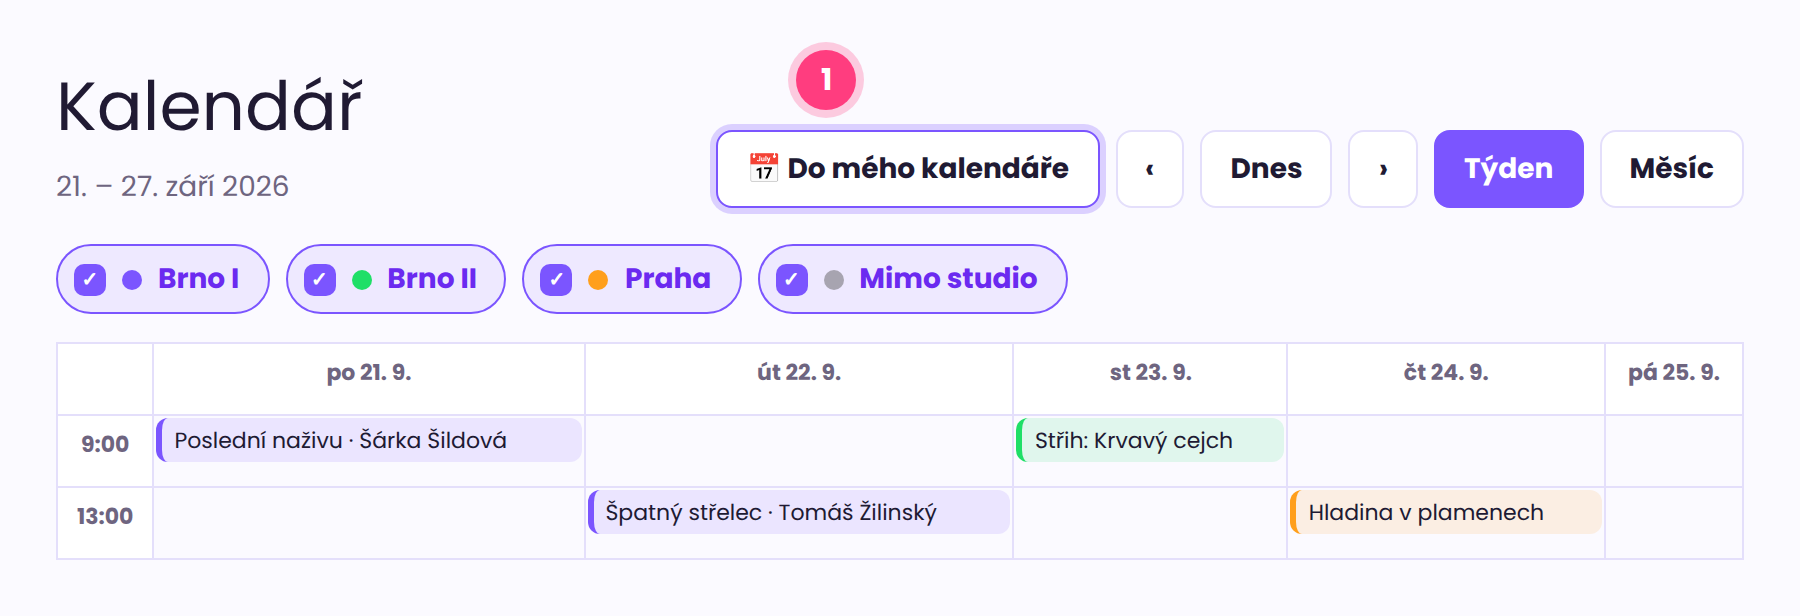
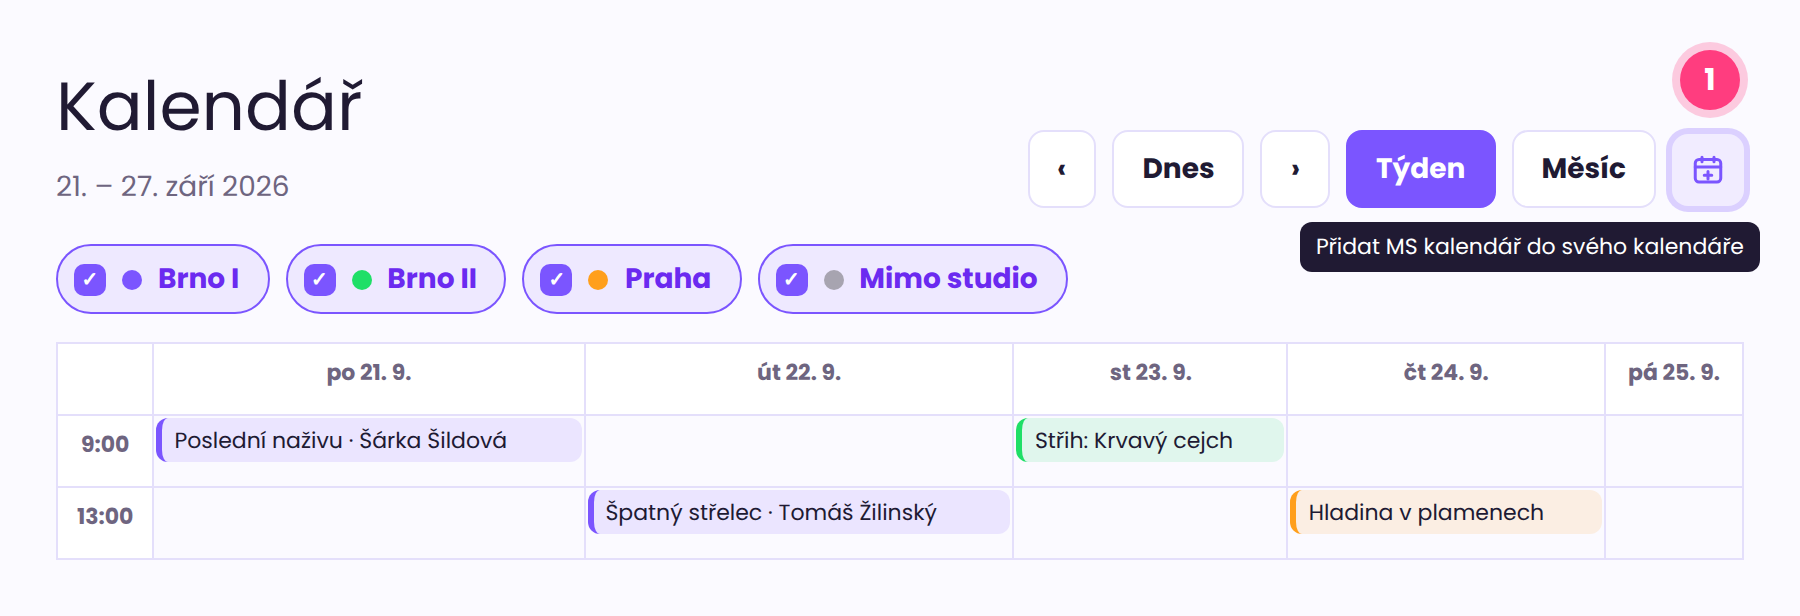
Kalendar: odber jen nenapadnou ikonkou
Tlacitko Do meho kalendare nahrazeno malou sedou ikonkou s bublinkou na konci hlavicky (za Tyden/Mesic). Navod a obrazek odber-1 upraveny.

Claude-Session: https://claude.ai/code/session_017ML6xEszibR659nh5zZn5o

Changed region(s): [[0.3733, 0.0617, 0.9956, 0.4627], [0.9022, 0.0617, 0.9956, 0.2159]]

diff --git a/src/app/(portal)/kalendar/OdberKalendare.tsx b/src/app/(portal)/kalendar/OdberKalendare.tsx
@@ -107,17 +107,20 @@ export function OdberKalendare({ studios }: { studios: { id: string; name: strin
 
   return (
     <>
+      {/* Jen nenapadna ikonka (zadani 20. 9. 2026: „tlacitko je strasne
+          velke a zbytecne na to, ze se to prida jednou a pak uz se
+          nepouziva"). Popis je v bublince po najeti mysi. */}
       <button
         type="button"
         onClick={() => setOtevreno(true)}
-        className="inline-flex items-center gap-2 rounded-lg border border-line px-4 py-2 text-sm font-heading font-semibold text-ink hover:border-brand-purple transition-colors"
-        title="Přidat MS kalendář do Google, Apple nebo jiného kalendáře"
+        aria-label="Přidat MS kalendář do svého kalendáře (Google, Apple, Outlook)"
+        title="Přidat MS kalendář do svého kalendáře (Google, Apple, Outlook)"
+        className="w-9 h-9 grid place-items-center rounded-lg text-muted hover:text-brand-purple hover:bg-field transition-colors"
       >
-        <svg viewBox="0 0 24 24" fill="none" stroke="currentColor" strokeWidth="2" strokeLinecap="round" strokeLinejoin="round" className="w-4 h-4" aria-hidden>
+        <svg viewBox="0 0 24 24" fill="none" stroke="currentColor" strokeWidth="2" strokeLinecap="round" strokeLinejoin="round" className="w-[18px] h-[18px]" aria-hidden>
           <rect x="3.5" y="5" width="17" height="15" rx="2.5" />
           <path d="M3.5 10h17M8 3.5v3M16 3.5v3M12 13v5M9.5 15.5h5" />
         </svg>
-        Do mého kalendáře
       </button>
 
       {otevreno && (

diff --git a/scripts/navody/odber.html b/scripts/navody/odber.html
@@ -58,10 +58,11 @@ table{border-collapse:collapse;width:100%}
   <div class="hlav">
     <div><p class="nad" style="font-size:34px">Kalendář</p><p class="muted" style="margin:4px 0 0">21. – 27. září 2026</p></div>
     <div style="display:flex;gap:8px;align-items:center;position:relative">
-      <span class="tl" style="border-color:var(--p);box-shadow:0 0 0 3px rgba(123,85,255,.25)">📅 Do mého kalendáře</span>
       <span class="tl">‹</span><span class="tl">Dnes</span><span class="tl">›</span>
       <span class="tl fial">Týden</span><span class="tl">Měsíc</span>
-      <span class="num" style="left:40px;top:-40px">1</span>
+      <span style="width:36px;height:36px;display:grid;place-items:center;border-radius:8px;color:var(--p);background:var(--tint);box-shadow:0 0 0 3px rgba(123,85,255,.25)"><svg viewBox="0 0 24 24" width="18" height="18" fill="none" stroke="currentColor" stroke-width="2" stroke-linecap="round" stroke-linejoin="round"><rect x="3.5" y="5" width="17" height="15" rx="2.5"/><path d="M3.5 10h17M8 3.5v3M16 3.5v3M12 13v5M9.5 15.5h5"/></svg></span>
+      <span style="position:absolute;right:-8px;top:46px;background:#201a33;color:#fff;font-size:11px;padding:4px 8px;border-radius:6px;white-space:nowrap">Přidat MS kalendář do svého kalendáře</span>
+      <span class="num" style="right:2px;top:-40px">1</span>
     </div>
   </div>
   <div style="display:flex;gap:8px;margin-top:18px">

diff --git a/src/app/(portal)/kalendar/CalendarBrowser.tsx b/src/app/(portal)/kalendar/CalendarBrowser.tsx
@@ -399,8 +399,6 @@ export function CalendarBrowser({
           <p className="text-sm font-body text-muted m-0 mt-1 capitalize">{nadpis}</p>
         </div>
         <div className="flex items-center gap-2 flex-wrap">
-          {/* MS kalendar do Google/Apple (zadani 20. 9. 2026). */}
-          <OdberKalendare studios={studios.map((s) => ({ id: s.id, name: s.name, color: s.color }))} />
           <button
             type="button"
             onClick={() => posun(-1)}
@@ -438,6 +436,9 @@ export function CalendarBrowser({
               </button>
             ))}
           </span>
+          {/* MS kalendar do Google/Apple (zadani 20. 9. 2026) - jen ikonka
+              na konci, pouziva se jednou. */}
+          <OdberKalendare studios={studios.map((s) => ({ id: s.id, name: s.name, color: s.color }))} />
         </div>
       </div>
 

diff --git a/prisma/navodMapaPortalu.ts b/prisma/navodMapaPortalu.ts
@@ -108,7 +108,7 @@ Portál běží na Vercelu, data jsou v databázi. Nahrávky bydlí na **Google 
 
 - **Kde je zakázka a jak na tom je?** Projekty → karta projektu → Přehled.
 - **Kdy natáčíme a kde?** Kalendář, nebo záložka Natáčecí plán u projektu.
-- **Chci kalendář v telefonu?** Kalendář → **Do mého kalendáře** (Google, Apple, Outlook; jen pro čtení).
+- **Chci kalendář v telefonu?** Kalendář → ikonka kalendáře s plusem vpravo nahoře (Google, Apple, Outlook; jen pro čtení).
 - **Co jsme klientovi poslali?** Historie u projektu.
 - **Kolik jsme fakturovali?** Doklady u projektu, nebo sekce Doklady.
 - **Přišly peníze?** Doklady → Banka (kdo na ni má právo).

diff --git a/prisma/navodOdberKalendare.ts b/prisma/navodOdberKalendare.ts
@@ -22,9 +22,9 @@ export const ODBER_KALENDARE = {
 
 # 1. Otevřete okno
 
-![Tlačítko Do mého kalendáře v hlavičce Kalendáře](/navody/odber-1.png)
+![Ikonka kalendáře s plusem vpravo v hlavičce Kalendáře](/navody/odber-1.png)
 
-1. V **Kalendáři** klikněte vpravo nahoře na **Do mého kalendáře**.
+1. V **Kalendáři** klikněte vpravo nahoře, hned za přepínačem Týden / Měsíc, na **malou ikonku kalendáře s plusem**. Po najetí myší se ukáže popisek „Přidat MS kalendář do svého kalendáře".
 
 # 2. Vyberte, co chcete vidět
 
